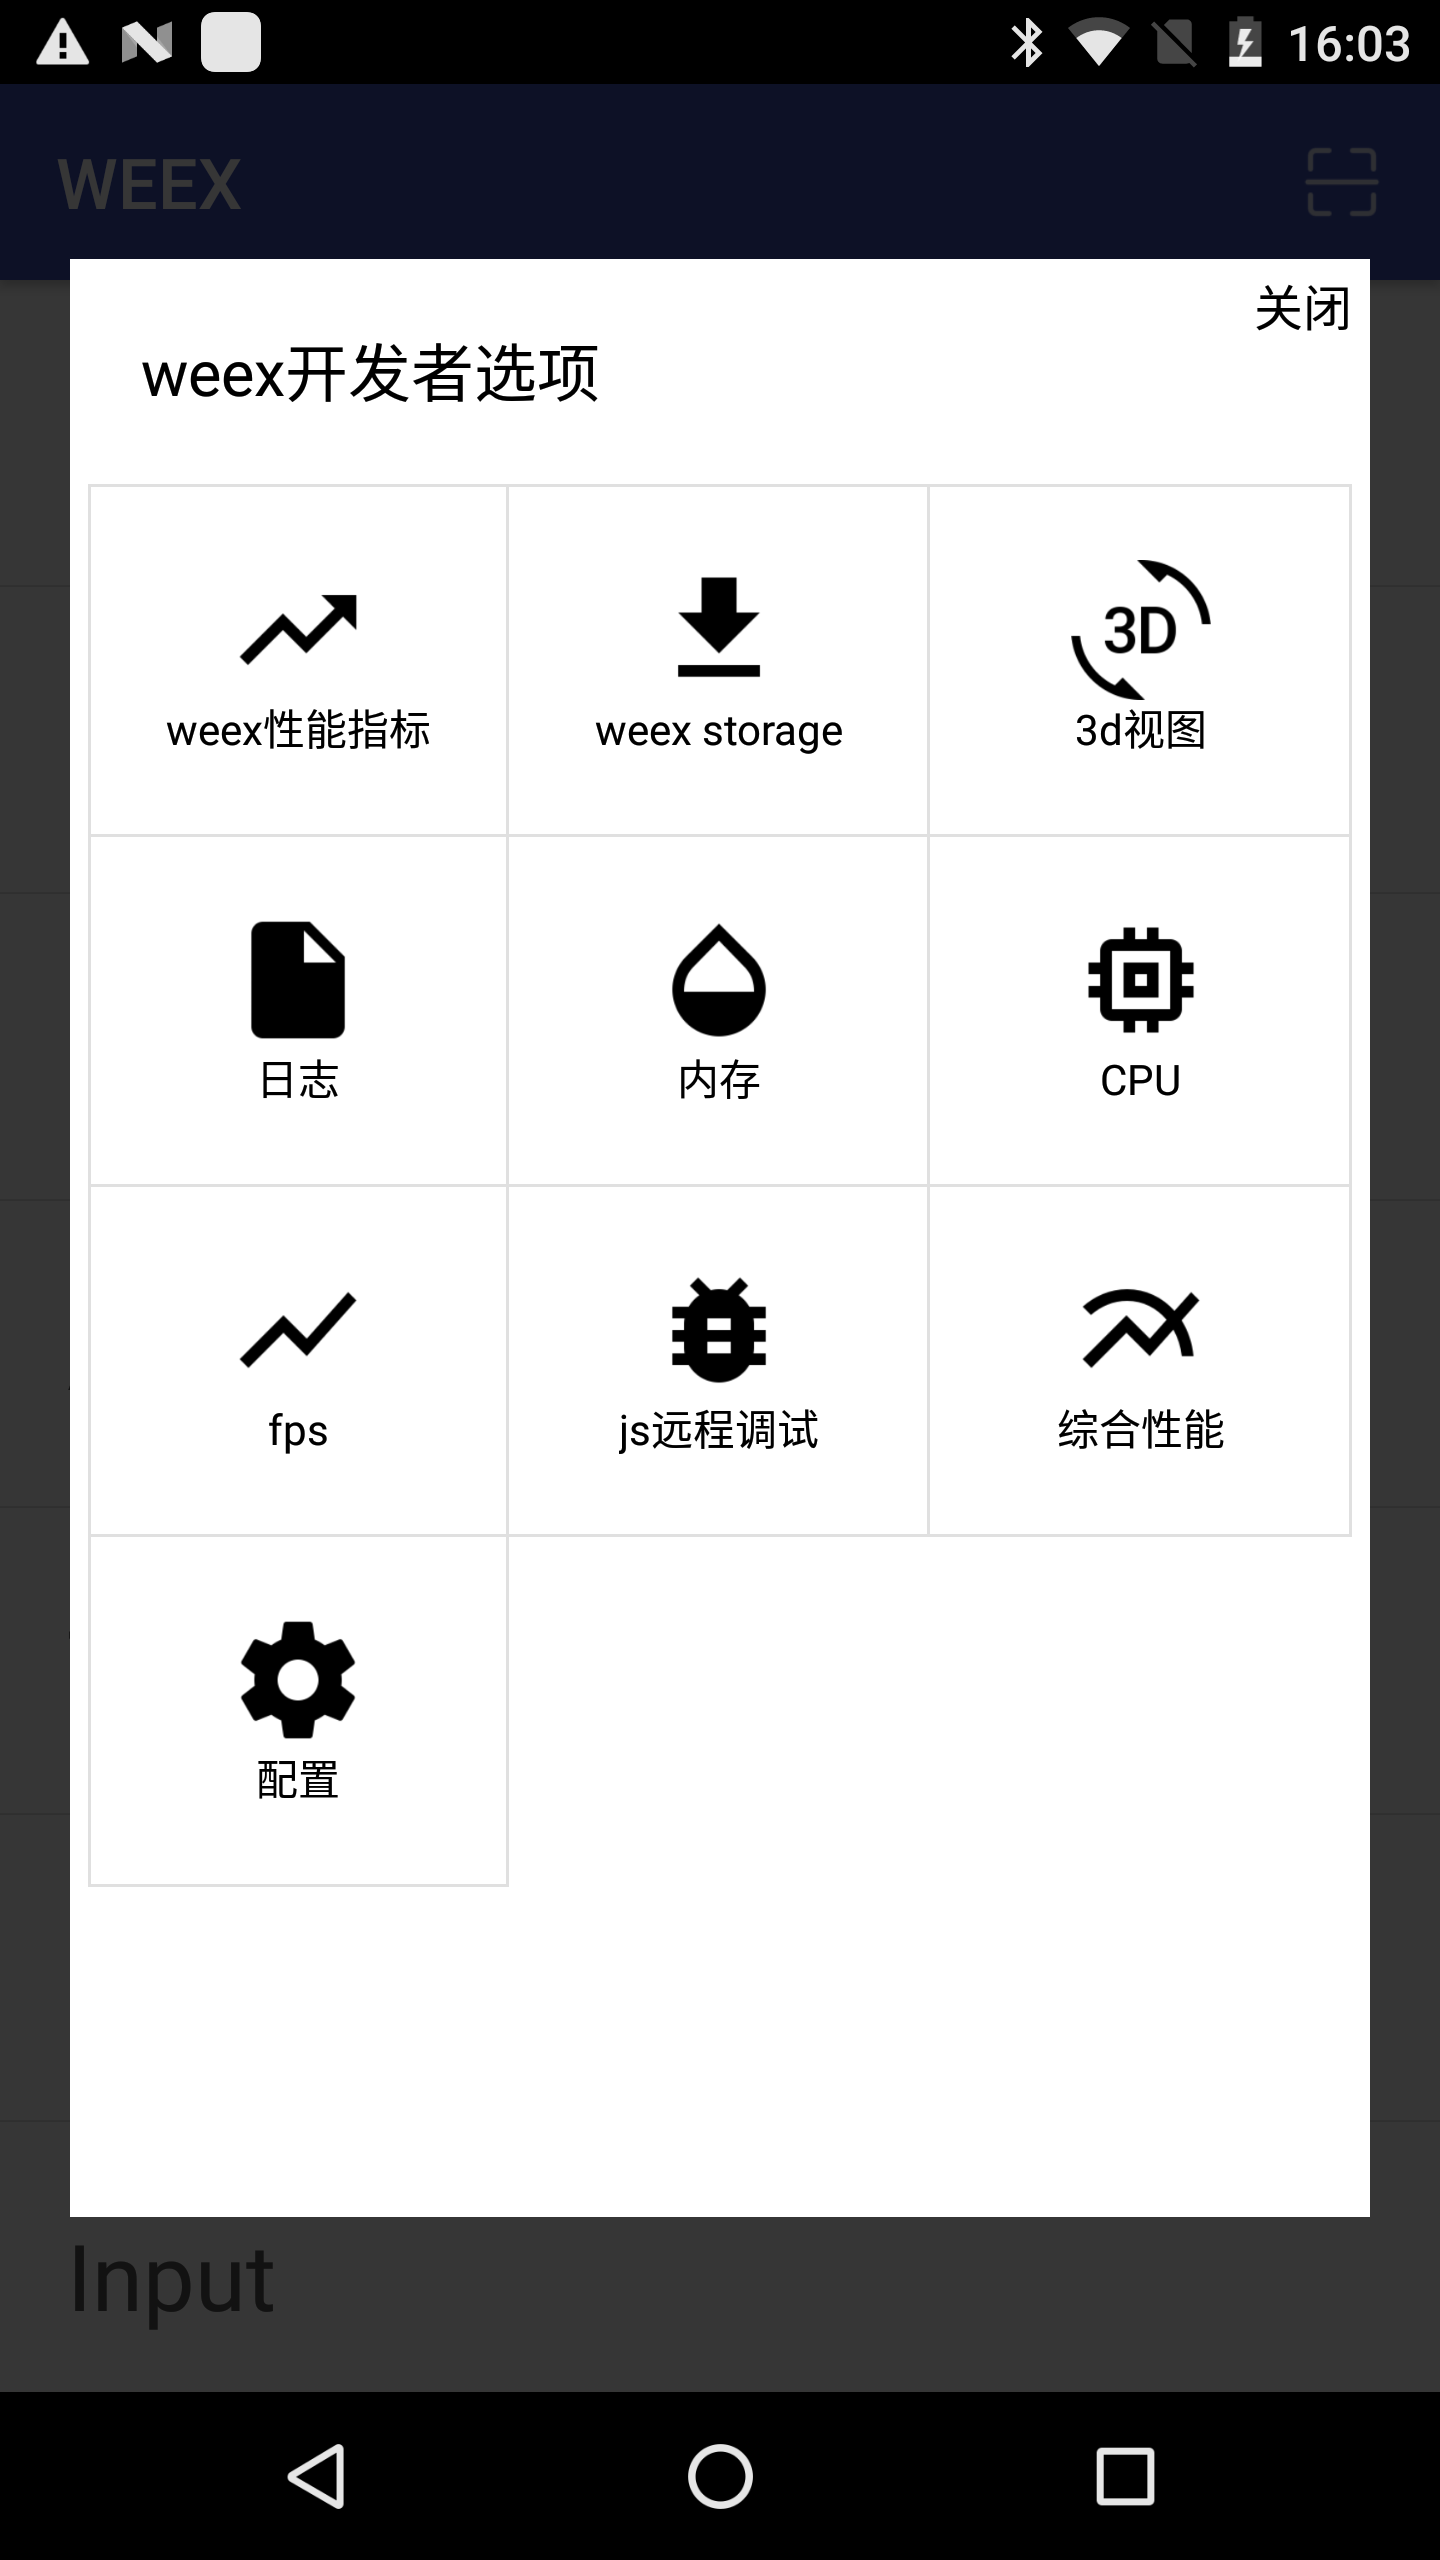
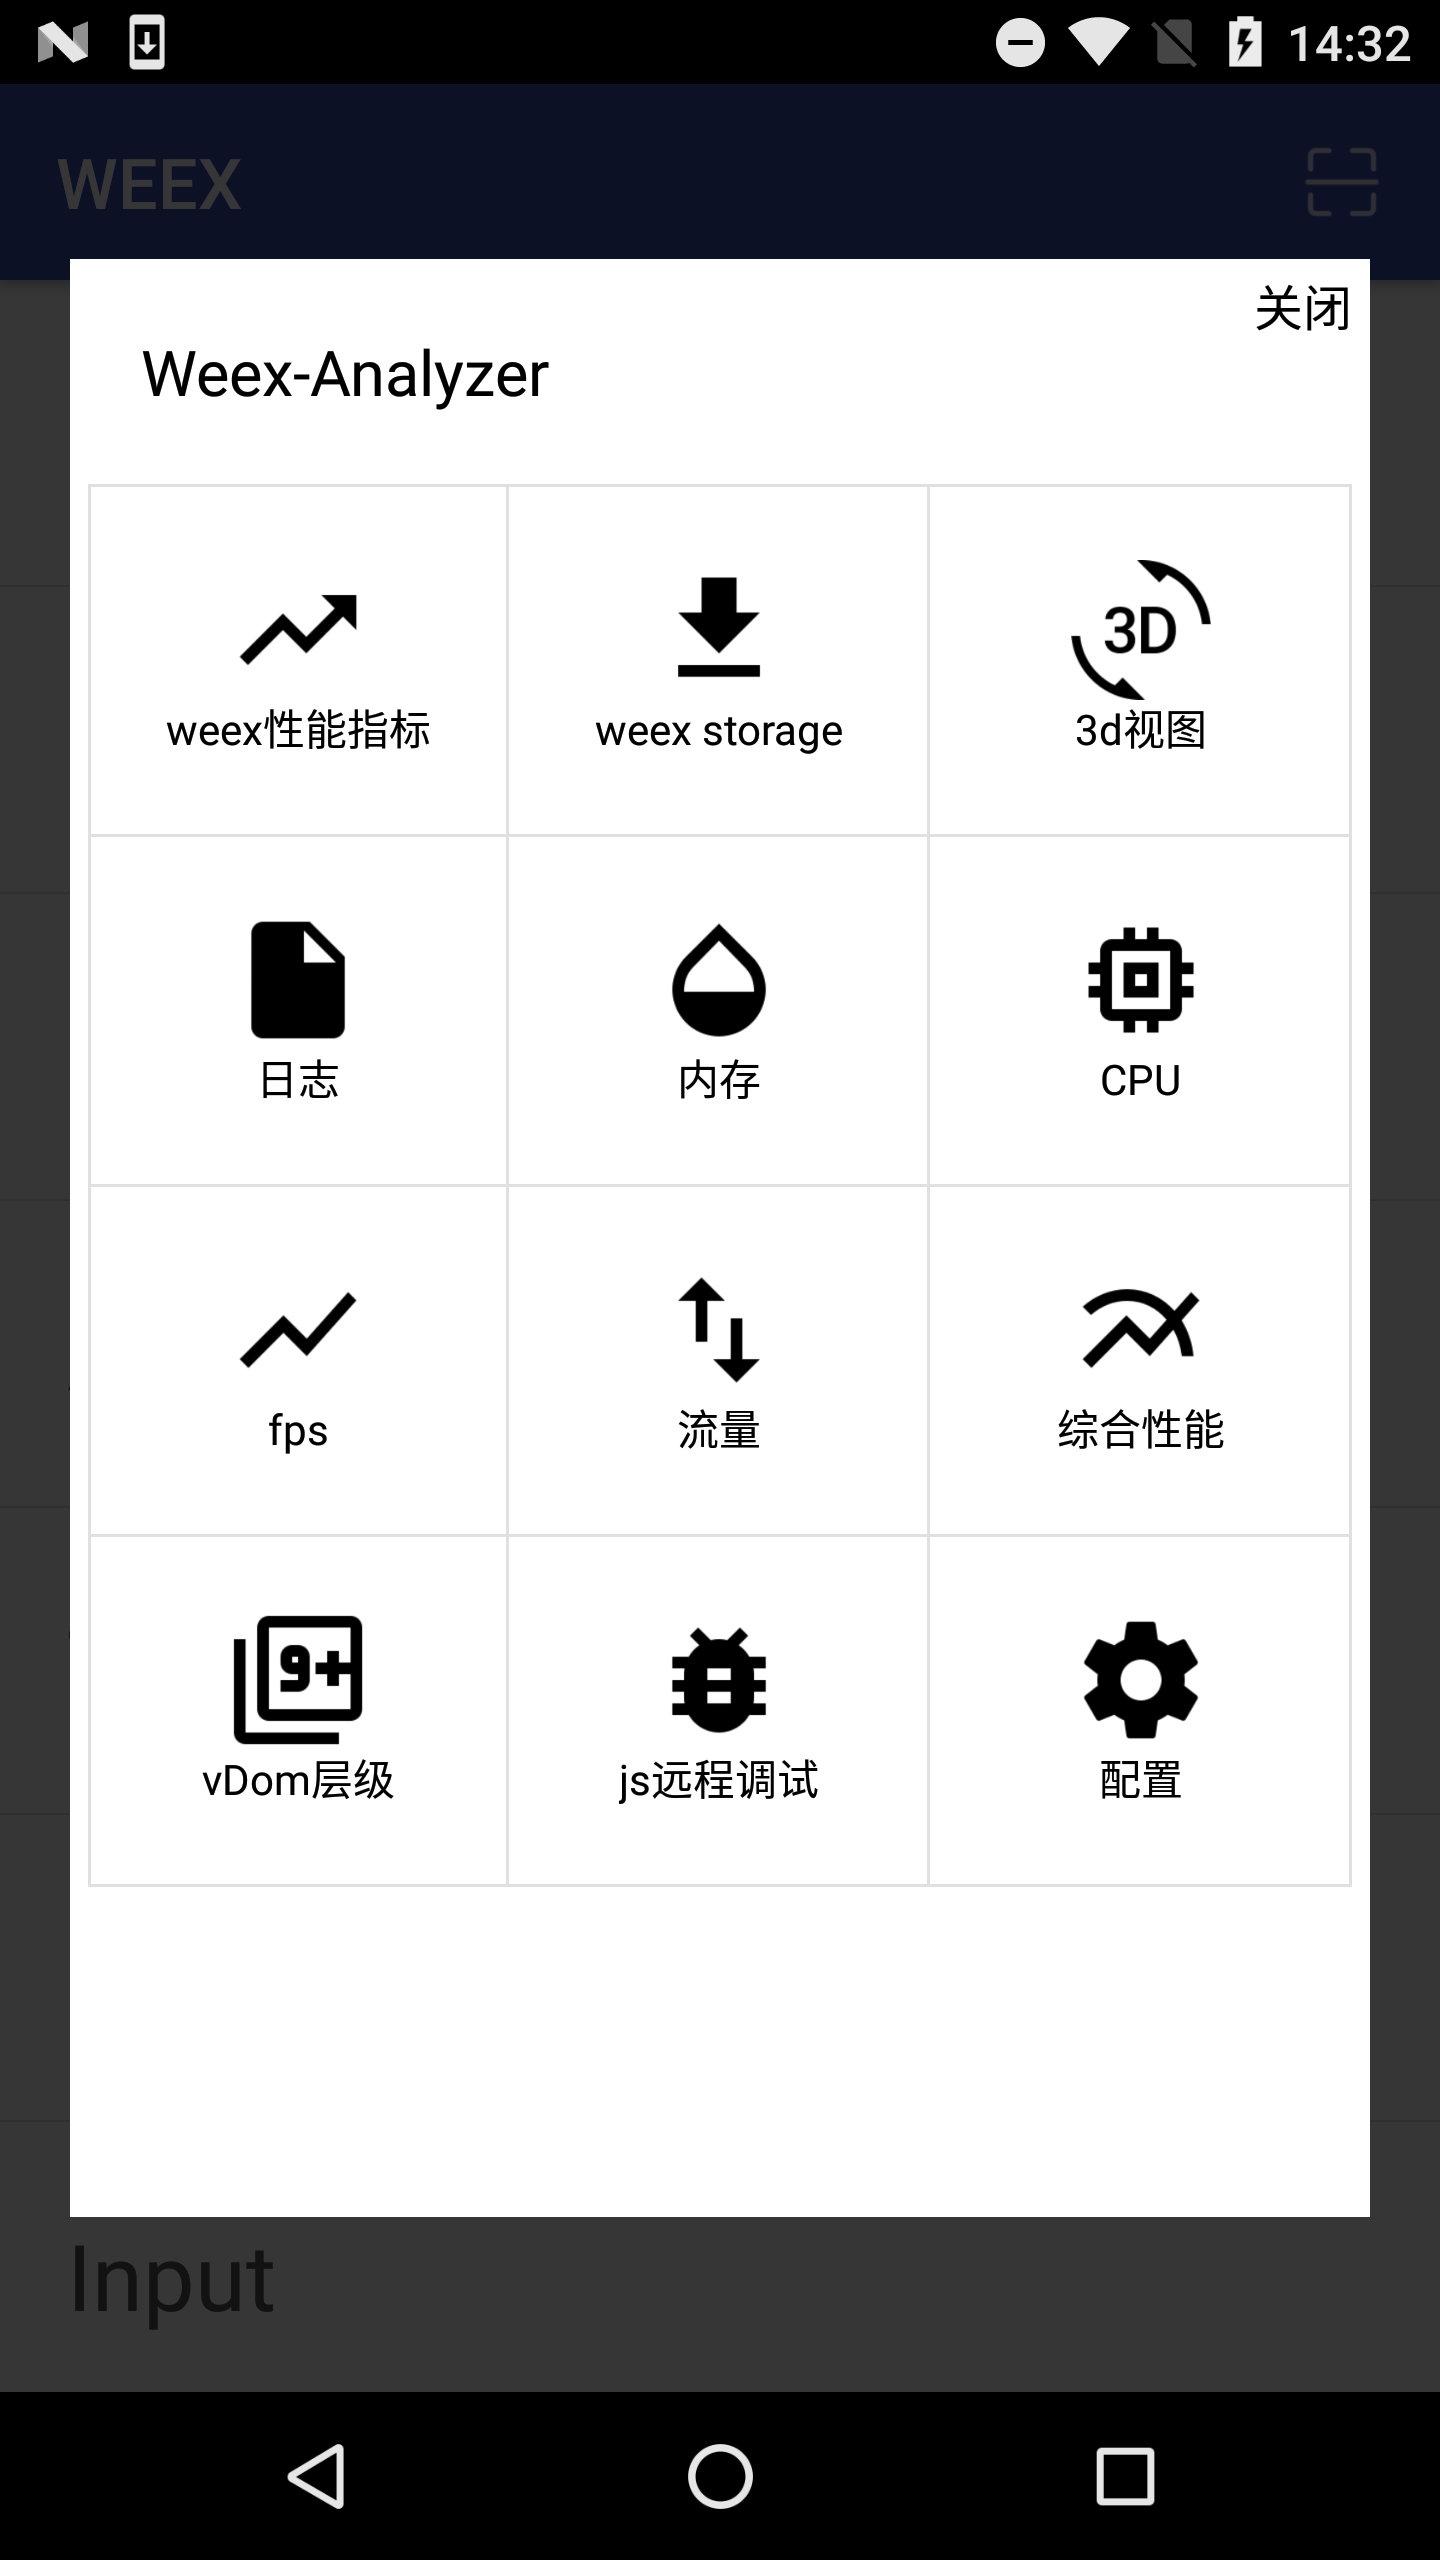
update doc

diff --git a/README.md b/README.md
@@ -11,10 +11,12 @@
 2. weex性能分析(查看当前weex页面性能指标/以图表方式展示历史性能指标变化趋势)
 3. weex storage查看、删除
 4. 实时帧率、丢帧数、内存占用悬浮框
-5. cpu/内存/fps 实时折线图
-6. 页面3d视图
-7. js报错时弹框提醒
-8. 远程调试js。(依赖[weex dev tool](https://github.com/weexteam/weex-devtools-android))
+5. 流量监控
+6. cpu/内存/fps 实时折线图
+7. 页面3d视图
+8. js报错时弹框提醒
+9. 远程调试js。(依赖[weex dev tool](https://github.com/weexteam/weex-devtools-android))
+10. **vdom层级检查**
 
 ### 接入
 
@@ -97,5 +99,16 @@ debugCompile 'com.taobao.android:weex_analyzer:${latest version}'
 
 此功能方便没有集成【扫一扫】功能的app，或者是无法使用【扫一扫】的场景(如模拟器)。
 
+
+##### 10. vdom层级查看
+
+点击【vdom层级】按钮，即可开启。
+
+注:
+
+1. 展示的是vdom层级，而不是真实的native层级(同devtool)。
+2. 默认还会展示页面是否使用list/scroller组件
+
+![日志](./art/08.png)
 
 
